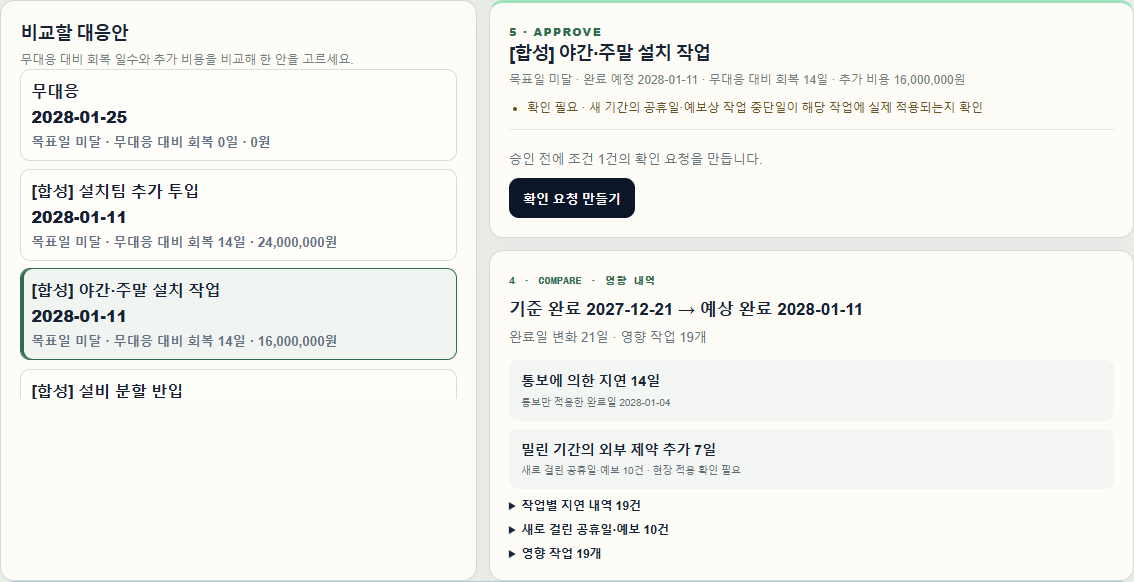
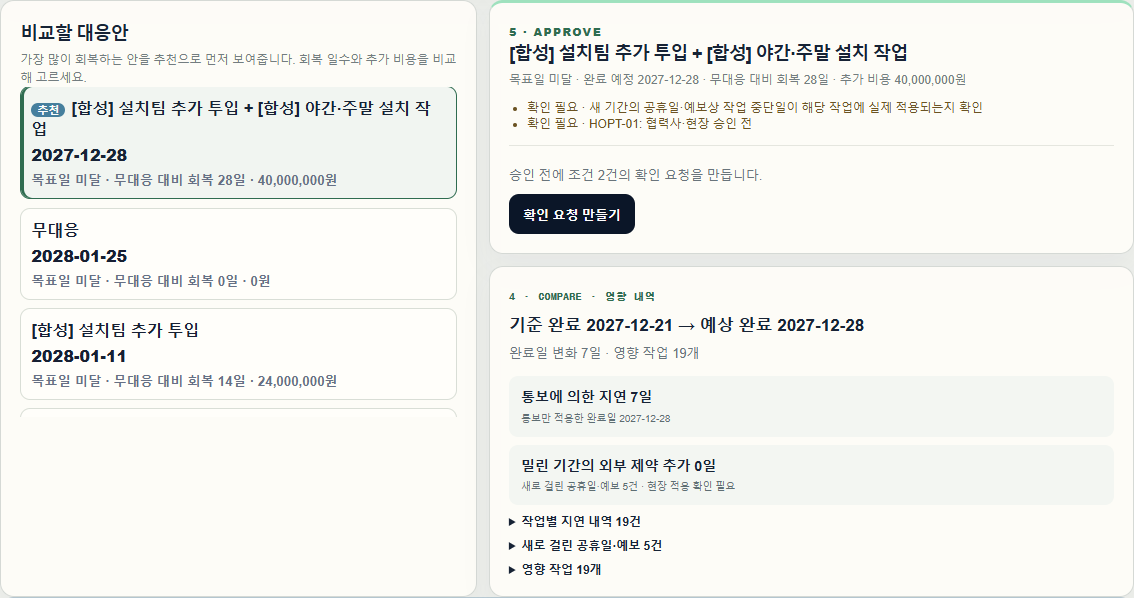
Add a one-line demo launcher and rewrite the X2 guide
scripts/demo.cmd (and demo.sh) stop the usual stack, keeping its data,
and start a separate clean stack that replays recorded agent responses.
The demo guide and README now follow the new X2 path: analysis, agent
investigation, confirming P-C, the recalculated recommendation and the
Excel export. Before/after captures from a first-time-user run are in
docs/demo/. The README evaluation section is unchanged.

diff --git a/docs/AGENT_AUDIT.md b/docs/AGENT_AUDIT.md
@@ -197,7 +197,7 @@
 | F24 | 패널에 LLM 사용 여부·호출 수·토큰·비용·소요 시간이 없음 | c82126e | 판단마다(설명·해석·조사 실행별) LLM 호출 수·입력/출력 토큰·비용 표시. 재생 모드에서는 '녹화 당시 비용, 이번 실행 비용 0'으로 구분 | 해결 |
 | F25 | V08 작업 연결 등 실제 가치가 대응안 화면 패널에 안 보임 | c82126e | 조사 결과에 '규칙만' 대 '에이전트' 나란히 표시(X2: 영향 없음·변화 0일 대 P-C +52일 위험·제출 기한 P-C 2027-02-08·통보에 없던 품목). 설명 1회 경로(H04)는 기존 대응안 설명 유지 | 해결 |
 | F26 | 패널 문장과 근거(원문 인용·계산·L2) 연결이 없음 | c82126e | 통보·연결된 공지 원문에서 에이전트가 인용한 문장(원인 연결 인용, 조건부 계산에 쓴 기간 문장, 후보 인용)을 형광 표시. 근거 실제 기사(제목·매체·발행일·링크)를 함께 표시 | 해결 |
-| F27 | 패널이 대응안 아래에 있고, 전체 도구 응답이 22만 자 JSON으로 펼쳐짐 | — | 패널 위치와 전체 도구 응답 표시는 루프 설계 이후(사용자 지시) | 미룸 |
+| F27 | 패널이 대응안 아래에 있고, 전체 도구 응답이 22만 자 JSON으로 펼쳐짐 | d2bee55 | 조사 결과의 근거·메일·판단 기록과 대응안 화면의 에이전트 설명을 기본으로 접어 둠. 조사 결과는 한 줄 결론·비교 카드·다음 행동만 먼저 보임 | 해결 |
 | F28 | 공지 후보 이유가 영어이고 이유와 인용이 붙어 표시 | c82126e | 공지 후보의 이유와 원문 인용을 줄을 나눠 표시. 이유 문장의 언어는 모델 출력 그대로 | 해결 |
 | F29 | 유료 상한이 실행 단위, 게이트웨이 비용을 저장하지 않음 | 2735938 | 게이트웨이 비용 헤더(`x-litellm-response-cost`)를 호출 `usage.cost_usd`에 담기 시작함. 상한을 호출 단위로 바꾸고 화면에 보이는 일은 사용량 표시와 함께 루프 설계 뒤로 미룸(사용자 지시) | 미룸 |
 | F30 | 수정 후 확인할 때마다 유료 호출이 필요함(재생 수단 없음) | 2735938 | `REPLAN_LLM_MODE`(`record`·`replay`)와 `REPLAN_LLM_CASSETTE` 추가. 요청 본문(실행별 ID·시각은 가림)으로 녹화본을 찾고, 없으면 `replay miss`로 멈춤. 재생은 키·네트워크·비용 없이 동작하고 유료 실행 한도에 세지 않음. 흩어져 있던 켬/끔 판정을 `agent_enabled()` 하나로 모음 | 해결 |
@@ -231,11 +231,18 @@
 | C2 | 에이전트가 L2 실제 사례를 직접 찾아 인용 | c82126e | 협력사 조사에서 통보와 공지가 같은 사유 단어를 공유할 때만 "먼저 search_risk_signals로 실제 사례를 찾아 인용"하라는 지시를 맥락에 넣어 X2만 재녹화(실제 호출 5회, 상한 5회). 모델은 검색을 불렀지만 자유 문구(`risk_type="중국 희토류 자석 부품 수출 허가 지연"`)로 찾아 검색 도구가 0건을 돌려줌(도구는 `export control`·`trade`·`permitting` 같은 분류어만 맞춤). 데모 대표 장면이 "실제 사례 없음"으로 끝나지 않도록 지시를 되돌려 이전 녹화를 재생. 에이전트가 찾은 사례를 인용 여부와 함께 보여주는 화면·결과 필드(`agent_found_cases`)는 남겨 둠. 해결하려면 검색 도구가 자유 문구(한·영 동의어)를 받도록 고치고 X2·X1-A를 다시 녹화해야 함(약 11회) | 미룸 |
 | C3 | 에이전트가 한 일이 보이게 | c82126e | 근거 문장 형광 표시와 실제 기사 링크, 규칙만 대 에이전트 비교, 판단별 호출 수·비용, '확인이 필요합니다' 표시, X2 협력사 메일 초안에 서류 제출 기한 추가(계산 결과로 덧붙임). 재생 모드 로컬 스택에서 X2·H04를 Playwright로 끝까지 확인, 실제 호출 없음 | 해결 |
 | C4 | README·데모 가이드 정리 | 5f1398e | 대표 장면 X2(숨은 위험), 보조 장면 H04(결정적 계산·비용 효율)만 앞에 두고 H01~H08·V01~V11·X1-A·X1-B·X2-대조·직접 업로드·감시 계획은 뒤쪽 "테스트·평가용"으로 모음. README 159 → 103줄, 평가 결과 섹션과 그 앞의 평가 설명 문단은 그대로. Playwright로 두 장면을 새 프로젝트에서 끝까지 진행한 캡처를 `docs/demo/`에 둠 | 해결 |
-| C5 | 합성 통보 목록 정리 | (이 커밋) | 목록 맨 위 '대표 데모' 묶음에 X2만 두고 나머지는 '테스트용' 묶음으로. X2를 고르면 같은 시기 외부 공지 N-X2가 없을 때 먼저 불러온 뒤 X2를 등록(녹화 때와 같은 순서). 재생 모드 로컬 스택에서 대표 데모 1회 선택 → 분석 → 조사 → 무대응 승인 → 확정 → Excel까지 Playwright로 확인 | 해결 |
+| C5 | 합성 통보 목록 정리 | d2bee55 | 목록 맨 위 '대표 데모' 묶음에 X2만 두고 나머지는 '테스트용' 묶음으로. X2를 고르면 같은 시기 외부 공지 N-X2가 없을 때 먼저 불러온 뒤 X2를 등록(녹화 때와 같은 순서). 재생 모드 로컬 스택에서 대표 데모 1회 선택 → 분석 → 조사 → 무대응 승인 → 확정 → Excel까지 Playwright로 확인 | 해결 |
 
 ### 사용성 정리 기록 (X2 대표 데모)
 
 | # | 항목 | 커밋 | 무엇을 바꿨는지 | 상태 |
 | --- | --- | --- | --- | --- |
-| D1 | 조사 결과를 사람이 확인하면 일정 재계산 | (다음 커밋) | `POST /api/projects/{id}/investigations/{run_id}/resolve`: "해당함"이면 조사에서 계산한 보류(P-C → T051 착수 2027-05-25)를 통보 변경에 더하고 정식 분석을 다시 실행(완료 2028-02-11). "해당 없음"이면 확인 요청만 닫고 기존 분석 유지. 확인 요청은 완료로 표시 | 해결 |
-| D2 | 조합 대응안이 실제로 회복하는 안을 고름 | (다음 커밋) | 단일 대응안을 먼저 계산하고, 두 안 조합은 가장 많이 회복하는 두 단일안으로 만듦(동률이면 등록 순서, 회복하는 안이 둘 미만이면 기존 첫 조합). 재계산 후 추천 조합 HOPT-05 + HOPT-06 → 2028-01-25(17일 회복, 3,200만 원). H04 등 기존 결과와 녹화 재생은 그대로 | 해결 |
+| D1 | 조사 결과를 사람이 확인하면 일정 재계산 | 7cfcc4a | `POST /api/projects/{id}/investigations/{run_id}/resolve`: "해당함"이면 조사에서 계산한 보류(P-C → T051 착수 2027-05-25)를 통보 변경에 더하고 정식 분석을 다시 실행(완료 2028-02-11). "해당 없음"이면 확인 요청만 닫고 기존 분석 유지. 확인 요청은 완료로 표시 | 해결 |
+| D2 | 조합 대응안이 실제로 회복하는 안을 고름 | 7cfcc4a | 단일 대응안을 먼저 계산하고, 두 안 조합은 가장 많이 회복하는 두 단일안으로 만듦(동률이면 등록 순서, 회복하는 안이 둘 미만이면 기존 첫 조합). 재계산 후 추천 조합 HOPT-05 + HOPT-06 → 2028-01-25(17일 회복, 3,200만 원). H04 등 기존 결과와 녹화 재생은 그대로 | 해결 |
+| D3 | "해석 확인 후 영향 분석" 뒤 화면이 넘어가지 않음 | d2bee55 | 원인: 대응안 화면이 '가장 최근에 들어온 변경'의 분석을 보여줘서, 다른 카드(예: X1-B)가 위에 있으면 방금 시작한 분석이 표시되지 않고 자동 이동도 일어나지 않음. 방금 시작한 분석과 사람이 마지막으로 분석한 변경을 따라가도록 수정 | 해결 |
+| D4 | 변경 → 대응안 → 변경 → 대응안 왕복 | d2bee55 | 영향 분석 결과 바로 아래에서 "에이전트로 숨은 위험 조사" → 결과 → 확인 결과 기록 → 재계산된 대응안 → 승인 → 실행으로 한 방향 진행. 변경 카드에는 짧은 안내와 "대응안 화면에서 보기"만 남김 | 해결 |
+| D5 | 대응안 화면 | d2bee55 | 무대응으로 목표를 충족하면 "대응 불필요: 현재 일정으로 목표 충족" 한 줄과 "현재 일정 유지로 진행", 대응안 목록은 접음. 목표 미달이면 회복 일수(동률이면 비용) 기준 추천 안을 맨 위에 두고 미리 선택 | 해결 |
+| D6 | 사용자가 모르는 말 | d2bee55 | "규칙", "규칙만", "규칙이 원문에서 추출한 제안" → "통보에서 읽어낸 변경 (확인 필요)", "통보 내용만 반영" 대 "에이전트 조사 후". 판단 기록의 내부 코드·"거절:"은 "보류: 통보에 없던 P-C가 실제로 해당되는지 사람이 먼저 확인해야…"처럼 문장으로. 외부 공지 카드의 날짜는 YYYY-MM-DD, 기준 버전 해시는 숨기고, 작업 선택은 관련 후보만(원하면 전체) | 해결 |
+| D7 | 글이 너무 많음 | d2bee55 | 조사 결과는 한 줄 결론 + 비교 카드 + 다음 행동 하나. 근거 문장·실제 기사, 협력사 메일 초안, 판단 기록(호출 수·비용 포함), 에이전트 설명은 기본으로 접음. 한 화면의 진한 버튼은 하나(조사 전: 조사, 조사 후: 확인 결과 기록, 재계산 후: 확인 요청 만들기) | 해결 |
+| D8 | 데모 설정 | d2bee55 | `scripts\demo.cmd`(macOS·Linux `scripts/demo.sh`)가 평소 스택을 멈추고(데이터 유지) 별도의 깨끗한 데이터로 재생 모드 스택을 띄움. 화면 위쪽에 에이전트 상태(꺼짐·녹화본 재생·실제 호출)와 켜는 방법 표시 | 해결 |
+| D9 | 재계산 후 에이전트 설명 녹화 | d2bee55 | `X2-resolved` 흐름 추가, 실제 호출 1회(상한 8회). 녹화 흐름 10개 모두 재생(29건, 누락 0). Playwright로 처음 쓰는 사용자처럼 새 프로젝트 → 대표 데모 → 분석(대응안 화면 자동 이동) → 조사 → "P-C도 해당함" → 추천 조합 승인 → 확정 → Excel까지 진행, Excel '변경 일정'의 마지막 완료일 2028-01-25가 고른 대응안 결과와 일치. H04도 끝까지 확인. 캡처는 `docs/demo/` | 해결 |

diff --git a/docs/DEMO_GUIDE.md b/docs/DEMO_GUIDE.md
@@ -4,25 +4,31 @@
 
 ## 준비
 
-```sh
-REPLAN_LLM_MODE=replay docker compose up -d --build
+```cmd
+scripts\demo.cmd
 ```
 
-녹화된 LLM 응답으로 에이전트를 재생하므로 키·비용 없이 두 장면이 끝까지 동작합니다. 화면의 비용은 "녹화 당시 비용 … 이번 실행 비용 0"으로 표시됩니다. `http://localhost:3000` → **데모 보기 → 워크스페이스 열기 → 프로젝트 만들기**(이름은 자유) → **일정**에서 **hero 데모 기준 일정 연결**(64개 작업). 두 장면은 새 프로젝트에서 각각 진행하세요.
+(macOS·Linux: `scripts/demo.sh`) 평소 스택을 멈추고(데이터는 유지) 별도의 깨끗한 데이터로, 녹화된 LLM 응답을 재생하는 모드(`REPLAN_LLM_MODE=replay`)로 띄웁니다. 키·비용 없이 에이전트가 동작하며 화면 위쪽에 "에이전트 켜짐 · 녹화본 재생 중(비용 0)"이 보입니다. "에이전트 꺼짐"이 보이면 이 스크립트로 다시 띄우세요. 다음에 깨끗하게 다시 시작하려면 `docker compose -p replan-demo down -v` 후 스크립트를 다시 실행합니다.
+
+`http://localhost:3000` → **데모 보기 → 워크스페이스 열기 → 프로젝트 만들기**(이름은 자유) → **일정**에서 **hero 데모 기준 일정 연결**(64개 작업).
 
 ## 장면 1 — X2: 통보에 없던 숨은 위험
 
-| # | 누를 곳 | 정상 화면 |
+| # | 누를 곳 | 정상이면 보이는 것 |
 | --- | --- | --- |
-| 1–2 | **변경** → 합성 통보 목록 맨 위 '대표 데모'의 `X2 · 대표 데모 · 협력사 통보에 없던 숨은 위험 찾기` → **합성 통보 불러오기** | 카드 2장: 같은 시기 외부 공지 N-X2(자동으로 함께 불러옴)와 X2 통보. X2 카드에 해석된 변경 **T042 · 완료 예정일 2026-03-14**, 아래 '같은 시기 외부 공지 1건이 같은 작업(T042)에 걸려 있습니다' |
-| 3 | **해석 확인 후 영향 분석** | 대응안 화면으로 이동. 규칙 계산 결과 완료 **2027-12-21, 변화 0일** |
-| 4 | **변경**으로 돌아와 X2 카드의 **조사 시작** | 몇 초 뒤 **확인이 필요합니다**. LLM 호출 5회·비용, **규칙만**(영향 없음) 대 **에이전트**(P-C +52일 위험, 최악 2028-02-11, 제출 기한 P-C 2027-02-08) |
-| 5 | 같은 카드 아래로 | 에이전트가 인용한 원문 문장 강조(통보·공지), 근거 실제 기사(RS-019, CNBC 2025-10-15), 확인 요청(서류 제출 기한 포함), 협력사 메일 초안(발송 전, 제출 기한 포함) |
-| 6 | **판단 기록** | 구매 품목 찾기(P-B → T058, P-C → T051) → 여유 계산(T058 245일 흡수, T051 0일) → 조건부 일정(2028-02-11, 기한 2027-02-08) → 대응안 비교 거절(통보에 없던 품목은 사람 확인 먼저). 단계마다 '왜'가 보임 |
-| 7 | (선택) **대응안**에서 안 선택 → 확인 요청 → 승인 → **실행**에서 새 일정 버전 확정 → Excel | 장면 2의 6~8과 같음 |
+| 1 | **변경** → 합성 통보 목록 맨 위 '대표 데모'의 `X2 · 대표 데모 …` → **합성 통보 불러오기** | 카드 2장(같은 시기 외부 공지 N-X2, X2 통보). X2 카드에 "통보에서 읽어낸 변경 (확인 필요): T042 … 2026-03-14" |
+| 2 | X2 카드의 **해석 확인 후 영향 분석** | **대응안** 화면으로 자동 이동. "통보 내용만 반영: 영향 없음 · 완료 2027-12-21", 아래에 "대응 불필요: 현재 일정으로 목표 충족" |
+| 3 | 같은 화면의 **에이전트로 숨은 위험 조사** | 몇 초 뒤 한 줄 결론 "통보에 없던 P-C도 같은 수출 허가 대상일 수 있음 · 최악 +52일 · 제출 기한 2027-02-08"과 비교 카드 **통보 내용만 반영**(영향 없음) 대 **에이전트 조사 후**(P-C +52일 위험, 최악 완료 2028-02-11) |
+| 4 | (선택) 접힌 **근거 문장 · 실제 기사**, **협력사 메일 초안**, **판단 기록** 펼치기 | 원문 강조와 근거 기사(CNBC 2025-10-15), 제출 기한이 들어간 메일 초안, 확인 4단계와 LLM 호출 수·비용 |
+| 5 | 확인 요청 칸에 회신 내용 입력(선택) → **P-C도 해당함 · 일정 다시 계산** | "조사 결과 반영: 완료 2028-02-11 (+52일)". 대응안 목록 맨 위에 **추천** "제어 통합·교정 집중 투입 + 시운전·통합시험 병행 준비" **2028-01-25 · 회복 17일 · 32,000,000원**이 선택된 상태 |
+| 6 | 오른쪽 **확인 요청 만들기** → 조건마다 회신 근거 입력 → **확인 기록** → **이 대응안 승인** | 실행 화면으로 이동 |
+| 7 | **새 일정 버전 확정** → **Excel 다운로드** | 확정 버전 카드, `replan-….xlsx`의 '변경 일정' 시트 마지막 완료일 2028-01-25 |
 
-![X2 변경 카드](demo/X2_02_change_card.png)
-![X2 조사 결과](demo/X2_04_investigation.png)
+5번에서 **P-C 해당 없음**을 고르면 통보 내용만 반영한 결과(2027-12-21)를 유지하고, **현재 일정 유지로 진행**으로 승인할 수 있습니다.
+
+![X2 영향 분석 직후](demo/x2_2_before_investigation.png)
+![X2 조사 결과](demo/x2_3_investigation_result.png)
+![X2 확인 후 재계산](demo/x2_4_after_recalculation.png)
 
 ## 장면 2 — H04: 결정적 계산과 비용 효율
 
@@ -30,15 +36,14 @@ REPLAN_LLM_MODE=replay docker compose up -d --build
 | --- | --- | --- |
 | 1 | **변경** → 합성 통보 `H04 · Logistics Partner / 가상 메일` → **합성 통보 불러오기** | 해석된 변경 **T045 · 완료 예정일 2026-12-28** |
 | 2 | **해석 확인 후 영향 분석** | 대응안 화면으로 이동 |
-| 3 | 대응안 목록 | 무대응 **2028-01-25**(35일 지연), 설치팀 추가·야간 작업 등 **2028-01-11**(회복 14일), 두 안 조합 2027-12-28 |
+| 3 | 대응안 목록 | 맨 위 **추천** 두 안 조합 2027-12-28(회복 28일), 무대응 **2028-01-25**(35일 지연), 설치팀 추가·야간 작업 등 **2028-01-11**(회복 14일) |
 | 4 | `무대응` 선택 | 영향 내역: 통보에 의한 지연 **21일**, 밀린 기간의 외부 제약 추가 **14일**(새로 걸린 공휴일) |
-| 5 | 아래 **에이전트 판단 과정** | LLM 호출 1회·비용, 계산된 8개 안의 설명(옵션 ID별), 확인할 내용, 협력사 메일 초안 |
+| 5 | 아래 **계산된 대응안에 대한 에이전트 설명 보기** 펼치기 | LLM 호출 1회·비용, 계산된 8개 안의 설명(옵션 ID별), 확인할 내용, 협력사 메일 초안 |
 | 6 | `[합성] 야간·주말 설치 작업` → **확인 요청 만들기** → 회신 근거 입력 → **확인 기록** | 조건이 `확인됨`, **이 대응안 승인** 활성 |
 | 7 | **이 대응안 승인** | 실행 화면으로 이동 |
 | 8 | **새 일정 버전 확정** → **Excel 다운로드** | 확정 버전 카드, `replan-<프로젝트ID>-<버전>.xlsx` |
 
 ![H04 영향 내역](demo/H04_05_impact.png)
-![H04 에이전트 판단 과정](demo/H04_04_agent_panel.png)
 ![H04 실행](demo/H04_06_execute.png)
 
 승인 전에는 '새 일정 버전 확정'이 나타나지 않고, 조건을 확인하기 전에는 '승인'이 비활성입니다.
@@ -61,7 +66,7 @@ REPLAN_LLM_MODE=replay docker compose up -d --build
 
 | 모드 | 설정 | 동작 |
 | --- | --- | --- |
-| 규칙만 | 기본(키 없음 또는 `REPLAN_PAID_CALLS_ENABLED=false`) | 규칙과 계산기만. 에이전트 자리에는 'RULES · 규칙과 계산기' 안내, 조사 블록은 "에이전트가 꺼져 있어" 안내 |
+| 에이전트 꺼짐 | 기본(키 없음 또는 `REPLAN_PAID_CALLS_ENABLED=false`) | 통보 내용과 계산기만. 화면 위쪽에 "에이전트 꺼짐"과 켜는 방법(`scripts\demo.cmd`) 표시 |
 | 재생 | `REPLAN_LLM_MODE=replay` | 녹화된 응답으로 에이전트 동작, 비용 0. 녹화와 다른 요청은 멈춤 |
 | 실제 | 키 + `REPLAN_PAID_CALLS_ENABLED=true` | 작업·날짜 없는 통보 해석 1회, 정식 분석 설명 1회, 사람이 시작한 조사(최대 6회). 잠정 분석과 자동 감지는 LLM 없음 |
 

diff --git a/README.md b/README.md
@@ -12,11 +12,13 @@
 2. 구매 목록에서 통보에 없던 같은 협력사·원산지 품목 **P-B**(교육 시뮬레이터 구동부 → T058)와 **P-C**(정밀 서보 스테이지 → T051)를 찾고,
 3. 계산기로 T058은 여유 245일로 흡수, **T051은 여유 0일**임을 확인하고,
 4. P-C 허가가 늦으면 **완료 2028-02-11(+52일)**, 영향을 피하려면 **2027-02-08까지 서류 제출**이 필요하다고 계산한 뒤,
-5. 통보에 없던 품목이라 대응안 비교 대신 **확인 요청 1개와 협력사 메일 초안**을 남기고 멈춥니다("확인이 필요합니다").
+5. 통보에 없던 품목이라 대응안 비교 대신 **확인 요청과 협력사 메일 초안**(제출 기한 포함)을 남기고 멈춥니다("확인이 필요합니다").
+6. 사람이 "P-C도 해당함"을 기록하면 P-C 지연을 반영해 일정을 **다시 계산**하고(완료 2028-02-11), 가장 많이 회복하는 **추천 조합**(제어 통합·교정 집중 투입 + 시운전·통합시험 병행 준비, **2028-01-25**, 17일 회복)을 먼저 보여줍니다. 승인하면 새 일정 버전과 Excel에 반영됩니다.
 
-화면에는 규칙만 대 에이전트 비교, 에이전트가 인용한 원문 문장 강조, 판단 기록(확인마다 '왜'), 판단별 LLM 호출 수·비용, 시나리오의 근거가 된 실제 기사(RS-019, CNBC 2025-10-15)가 함께 보입니다. 일정·날짜는 합성이며 기사 속 지연 기간은 계산에 쓰지 않습니다.
+화면에는 "통보 내용만 반영" 대 "에이전트 조사 후" 비교와 다음 행동 하나가 먼저 보이고, 원문 문장 강조·근거 기사(RS-019, CNBC 2025-10-15)·판단 기록(확인마다 '왜', LLM 호출 수·비용)·메일 초안은 접어 둡니다. 일정·날짜는 합성이며 기사 속 지연 기간은 계산에 쓰지 않습니다.
 
-![X2 조사 결과](docs/demo/X2_04_investigation.png)
+![X2 조사 결과](docs/demo/x2_3_investigation_result.png)
+![X2 확인 후 재계산](docs/demo/x2_4_after_recalculation.png)
 
 ### H04 — 결정적 계산과 비용 효율
 
@@ -30,10 +32,10 @@ T045 설비 반입 완료일이 2026-12-05 → 2026-12-28로 늦어지는 통보
 
 ```sh
 cp .env.example .env          # REPLAN_DEMO_TOKEN을 로컬 값으로
-REPLAN_LLM_MODE=replay docker compose up -d --build
+scripts\demo.cmd              # Windows cmd (macOS·Linux: scripts/demo.sh)
 ```
 
-`http://localhost:3000` → **데모 보기 → 워크스페이스 열기 → 프로젝트 만들기**. `REPLAN_LLM_MODE=replay`는 녹화된 응답(`data/llm_replay/hero_demo.json`)으로 에이전트를 돌려 **키·네트워크·비용 없이** 두 장면을 끝까지 보여줍니다. 키 없이 기본 모드로 띄우면 규칙과 계산기만 동작합니다. 실제 LLM은 서버 환경에 `API_KEY`·`LLM_MODEL`·`LLM_BASE_URL`과 `REPLAN_PAID_CALLS_ENABLED=true`를 둘 때만 호출합니다. **키가 있는 `.env`와 프로젝트 데이터는 커밋하지 않습니다.**
+`http://localhost:3000` → **데모 보기 → 워크스페이스 열기 → 프로젝트 만들기**. 데모 스크립트는 평소 스택을 멈추고(데이터 유지) 별도의 깨끗한 데이터로 `REPLAN_LLM_MODE=replay` 스택을 띄웁니다. 재생 모드는 녹화된 응답(`data/llm_replay/hero_demo.json`)으로 에이전트를 돌려 **키·네트워크·비용 없이** 두 장면을 끝까지 보여줍니다. 키 없이 기본 모드로 띄우면 규칙과 계산기만 동작합니다. 실제 LLM은 서버 환경에 `API_KEY`·`LLM_MODEL`·`LLM_BASE_URL`과 `REPLAN_PAID_CALLS_ENABLED=true`를 둘 때만 호출합니다. **키가 있는 `.env`와 프로젝트 데이터는 커밋하지 않습니다.**
 
 Docker 없이 실행하려면 API(`uvicorn app.main:app --app-dir services/api`), worker(`PYTHONPATH=services/api python -m app.worker`), 웹(`apps/web`에서 `npm run dev`)을 같은 `REPLAN_DATA_DIR`·`REPLAN_DEMO_TOKEN`으로 띄웁니다(웹에는 `REPLAN_BACKEND_URL`). API 문서는 `http://localhost:8000/docs`.
 
